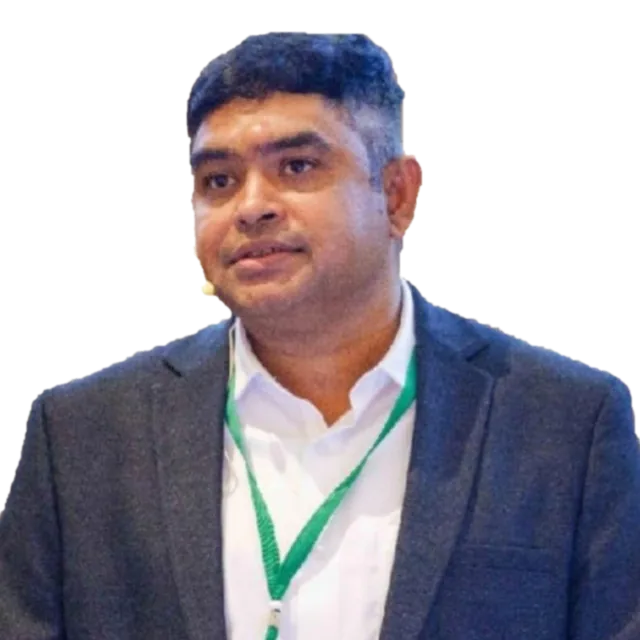
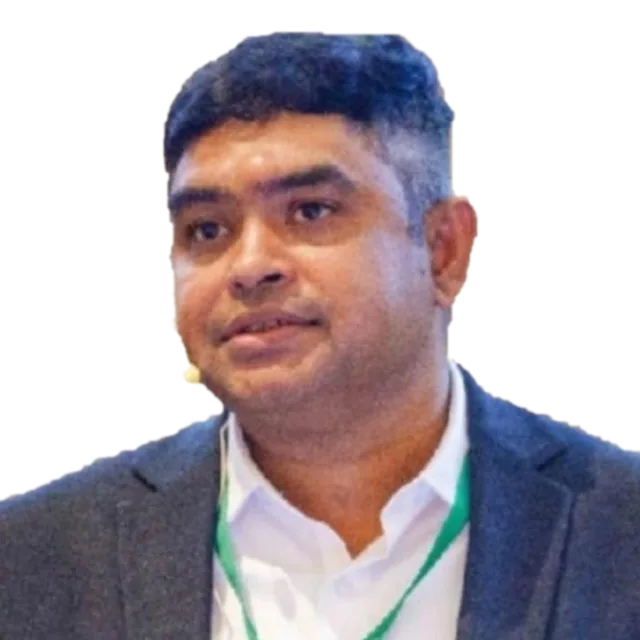
Show portrait in a circular frame
Claude-Session: https://claude.ai/code/session_014kUWRWJxKimrJ9uamSDKDF

diff --git a/static/style.css b/static/style.css
@@ -193,18 +193,20 @@ section { display: flex; flex-direction: column; gap: 1rem; }
 .prose strong { color: var(--fg); font-weight: 600; }
 
 /* Home intro with portrait */
-.intro { flex-direction: row; align-items: flex-end; justify-content: space-between; gap: 1.5rem; }
+.intro { flex-direction: row; align-items: center; justify-content: space-between; gap: 1.5rem; }
 .intro-text { display: flex; flex-direction: column; gap: 0.5rem; min-width: 0; }
 .portrait {
   flex: 0 0 auto;
-  width: clamp(9rem, 28vw, 15rem);
+  width: clamp(8.5rem, 24vw, 12.5rem);
   height: auto;
   max-width: 100%;
-  /* Fade the cropped shoulders into the page instead of ending on a hard edge. */
-  -webkit-mask-image: linear-gradient(to bottom, #000 70%, transparent 100%);
-  mask-image: linear-gradient(to bottom, #000 70%, transparent 100%);
+  aspect-ratio: 1;
+  object-fit: cover;
+  border-radius: 50%;
+  background: radial-gradient(circle at 50% 35%, var(--line), var(--surface) 70%);
+  box-shadow: 0 0 0 1px var(--line), 0 0 0 5px var(--bg), 0 0 0 6px var(--accent-soft);
 }
 @media (max-width: 34rem) {
   .intro { flex-direction: column-reverse; align-items: flex-start; }
-  .portrait { width: 10rem; }
+  .portrait { width: 8.5rem; }
 }
